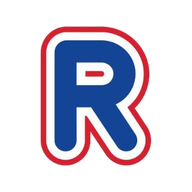
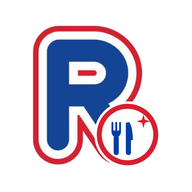
App på hjemmeskærmen: nyt ikon med kniv, gaffel og gnist
Ikonfilerne får ?v=2, så Safari henter det nye ikon. Version 0.3.17.

Changed region(s): [[0.1562, 0.125, 0.8438, 0.875], [0.3438, 0.3125, 0.5938, 0.4688]]

diff --git a/custom_components/rema1000/app/app.html b/custom_components/rema1000/app/app.html
@@ -9,9 +9,9 @@
 <meta name="apple-mobile-web-app-status-bar-style" content="black">
 <meta name="apple-mobile-web-app-title" content="REMA 1000">
 <meta name="theme-color" content="#ffffff">
-<link rel="manifest" href="manifest.json?v=3">
-<link rel="apple-touch-icon" href="apple-touch-icon.png?v=1">
-<link rel="icon" href="icon-192.png?v=1">
+<link rel="manifest" href="manifest.json?v=4">
+<link rel="apple-touch-icon" href="apple-touch-icon.png?v=2">
+<link rel="icon" href="icon-192.png?v=2">
 <title>REMA 1000</title>
 <!-- REMA 1000 som app på hjemmeskærmen: logger ind med Home Assistant og viser
      samme panel som i sidebaren, i fuld skærm og i dit Home Assistant-tema. -->
@@ -46,7 +46,7 @@
 </style>
 </head>
 <body>
-<div id="msg"><img src="icon-192.png?v=1" alt=""><div>Åbner REMA 1000 …</div></div>
+<div id="msg"><img src="icon-192.png?v=2" alt=""><div>Åbner REMA 1000 …</div></div>
 <div id="wrap" hidden></div>
 <div id="pull" aria-hidden="true"><svg viewBox="0 0 24 24"><path fill="currentColor"
   d="M17.65 6.35A7.95 7.95 0 0 0 12 4a8 8 0 1 0 7.73 10h-2.08A6 6 0 1 1 12 6c1.66 0 3.14.69 4.22 1.78L13 11h7V4z"/></svg></div>
